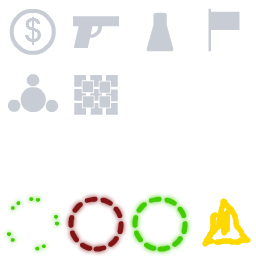
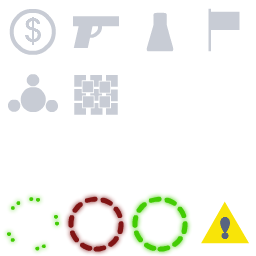
Added credits, fixed compilation issues, added the warning graphic, and credit to Johan.

Changed region(s): [[0.7812, 0.7812, 1.0, 0.9688]]

diff --git a/grinliz/glcolor.h b/grinliz/glcolor.h
@@ -39,8 +39,8 @@ struct Color3
 	T r, g, b;
 
 	void Set( T _r, T _g, T _b )	{ this->r = _r; this->g = _g; this->b = _b; }
-	T X( int i ) const				{ GLASSERT( i>=0 && i<3 ): return *(&r+i); }
-	T& X(int i)						{ GLASSERT( i>=0 && i<3 ): return *(&r+i); }
+	T X( int i ) const				{ GLASSERT( i>=0 && i<3 ); return *(&r+i); }
+	T& X(int i)						{ GLASSERT( i>=0 && i<3 ); return *(&r+i); }
 };
 
 typedef Color3<float> Color3F;

diff --git a/engine/particle.cpp b/engine/particle.cpp
@@ -413,8 +413,8 @@ void ParticleSystem::DrawBeamParticles( const Vector3F* eyeDir )
 		return;
 	}
 
-	const static float cornerX[] = { -1, 1, 1, -1 };
-	const static float cornerY[] = { -1, -1, 1, 1 };
+	//const static float cornerX[] = { -1, 1, 1, -1 };
+	//const static float cornerY[] = { -1, -1, 1, 1 };
 
 	// fixme: hardcoded texture coordinates
 	static const Vector2F tex[4] = {

diff --git a/gamui/gamui.h b/gamui/gamui.h
@@ -108,6 +108,7 @@ struct RenderAtom
 		textureHandle = (const void*) _textureHandle;
 		srcWidth = _srcWidth;
 		srcHeight = _srcHeight;
+		user = 0;
 	}
 
 	bool Equal( const RenderAtom& atom ) const {
